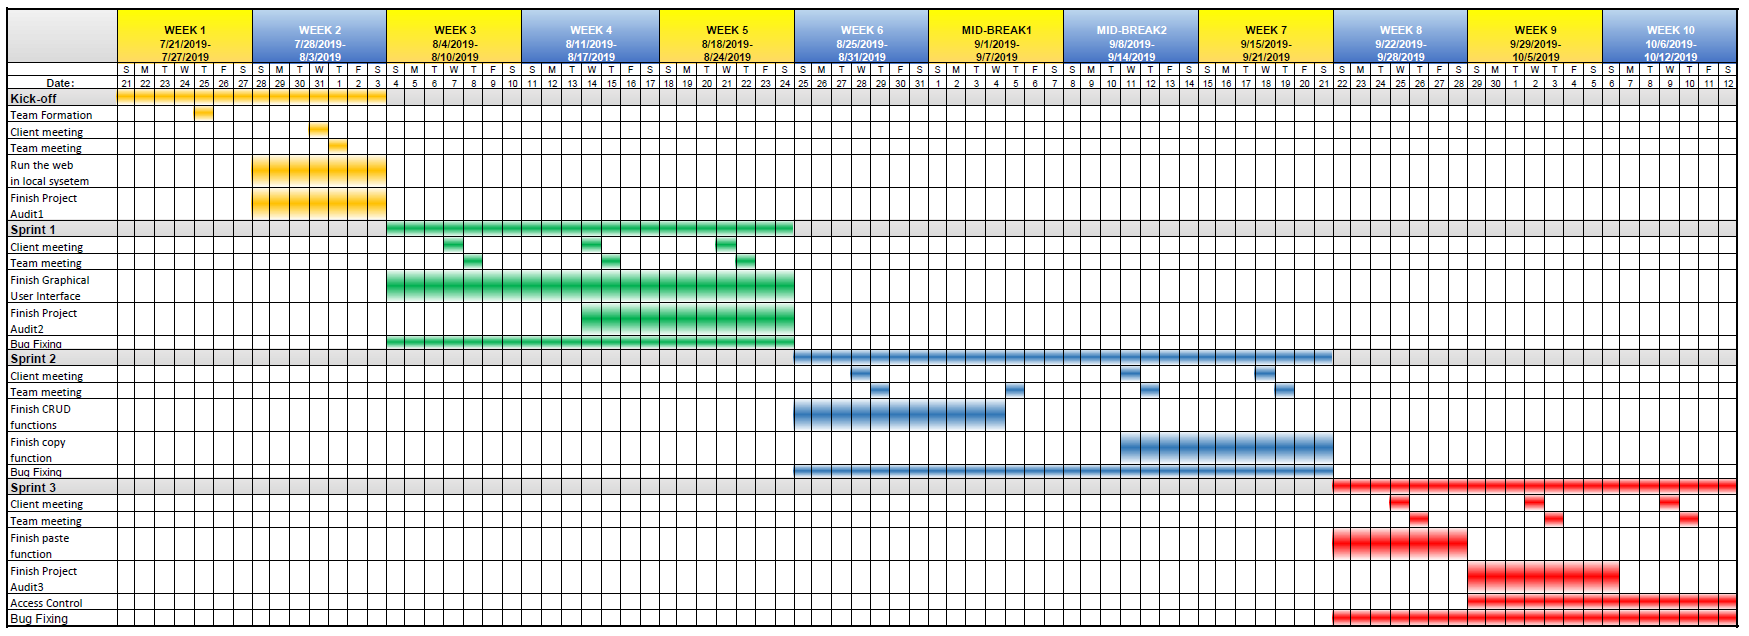
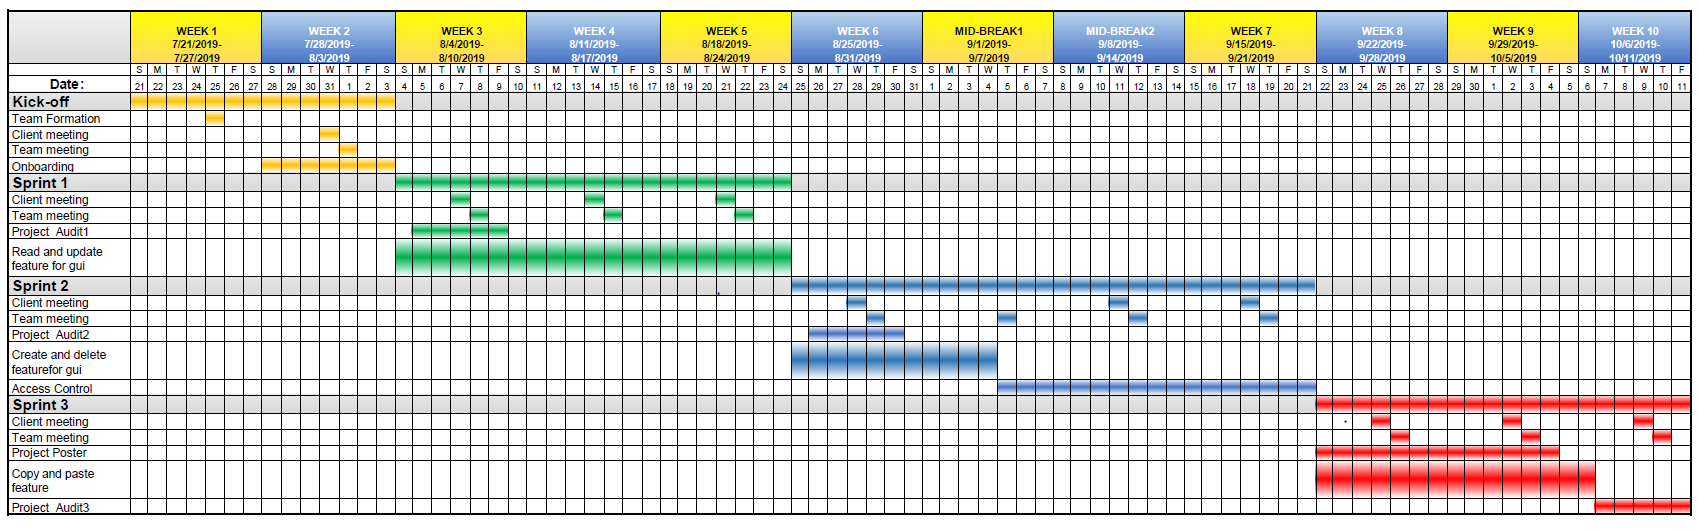
update gantt,schedule,overview

diff --git a/README.md b/README.md
@@ -3,6 +3,8 @@ This project will upgrade the former intelligent Course Scheduler project in man
 
 The Intelligent Course Scheduler is coming soon!
 
+### [Semester 2 Project Progress](Documentation/overview.md)
+
 ## Table of Contents
 
 1. [Team Members](#team-members)
@@ -60,9 +62,9 @@ The plan for this semester includes five main work objectives. They are, in a ro
 
 ![Project Schedule](Documentation/Audit1/Images/Schedule.png)
 * **Kick-Off**: Weeks 1 - 2. Team member recruitment, onboarding, project definition and setup. 
-* **Sprint 1**: Weeks 3 - 5. Project Audit 1,graphical user interface,bug fixing. 
-* **Sprint 2**: Weeks 6 - 7. Project Audit 2, CRUD functions,copy function and bug fixing. 
-* **Sprint 3**: Weeks 8 - 10. Project Audit 3,paste function,access control and bug fixing.
+* **Sprint 1**: Weeks 3 - 5. Project Audit 1, read and update feature for graphical user interface. 
+* **Sprint 2**: Weeks 6 - 7. Project Audit 2, create and delete feature for graphical user interface, access control.
+* **Sprint 3**: Weeks 8 - 10. Project Audit 3, copy and paste feature, project poster.
 
 ![Gantt](Documentation/Audit1/Images/gantt.PNG)
 

diff --git a/Documentation/overview.md b/Documentation/overview.md
@@ -1,0 +1,17 @@
+# Semester 2 Progress Overview
+
+## Sprint 1: Weeks 3 - 5
+
+#### Week 3
+
+* [**Presentation Slides**](Documentation\Audit1\Million_Coursework_Stuednts(temp).pptx)
+* [Meeting Minutes: Client](Documentation\MeetingMinutes\MeetingMinutes3.pdf)
+
+## Kick-off: Weeks 1 - 2
+
+#### Week 2
+* [Meeting Minutes: Full Team](Documentation\MeetingMinutes\MeetingMinutes2.pdf)
+* [Meeting Minutes: Client](Documentation\MeetingMinutes\MeetingMinutes1.pdf)
+
+
+
